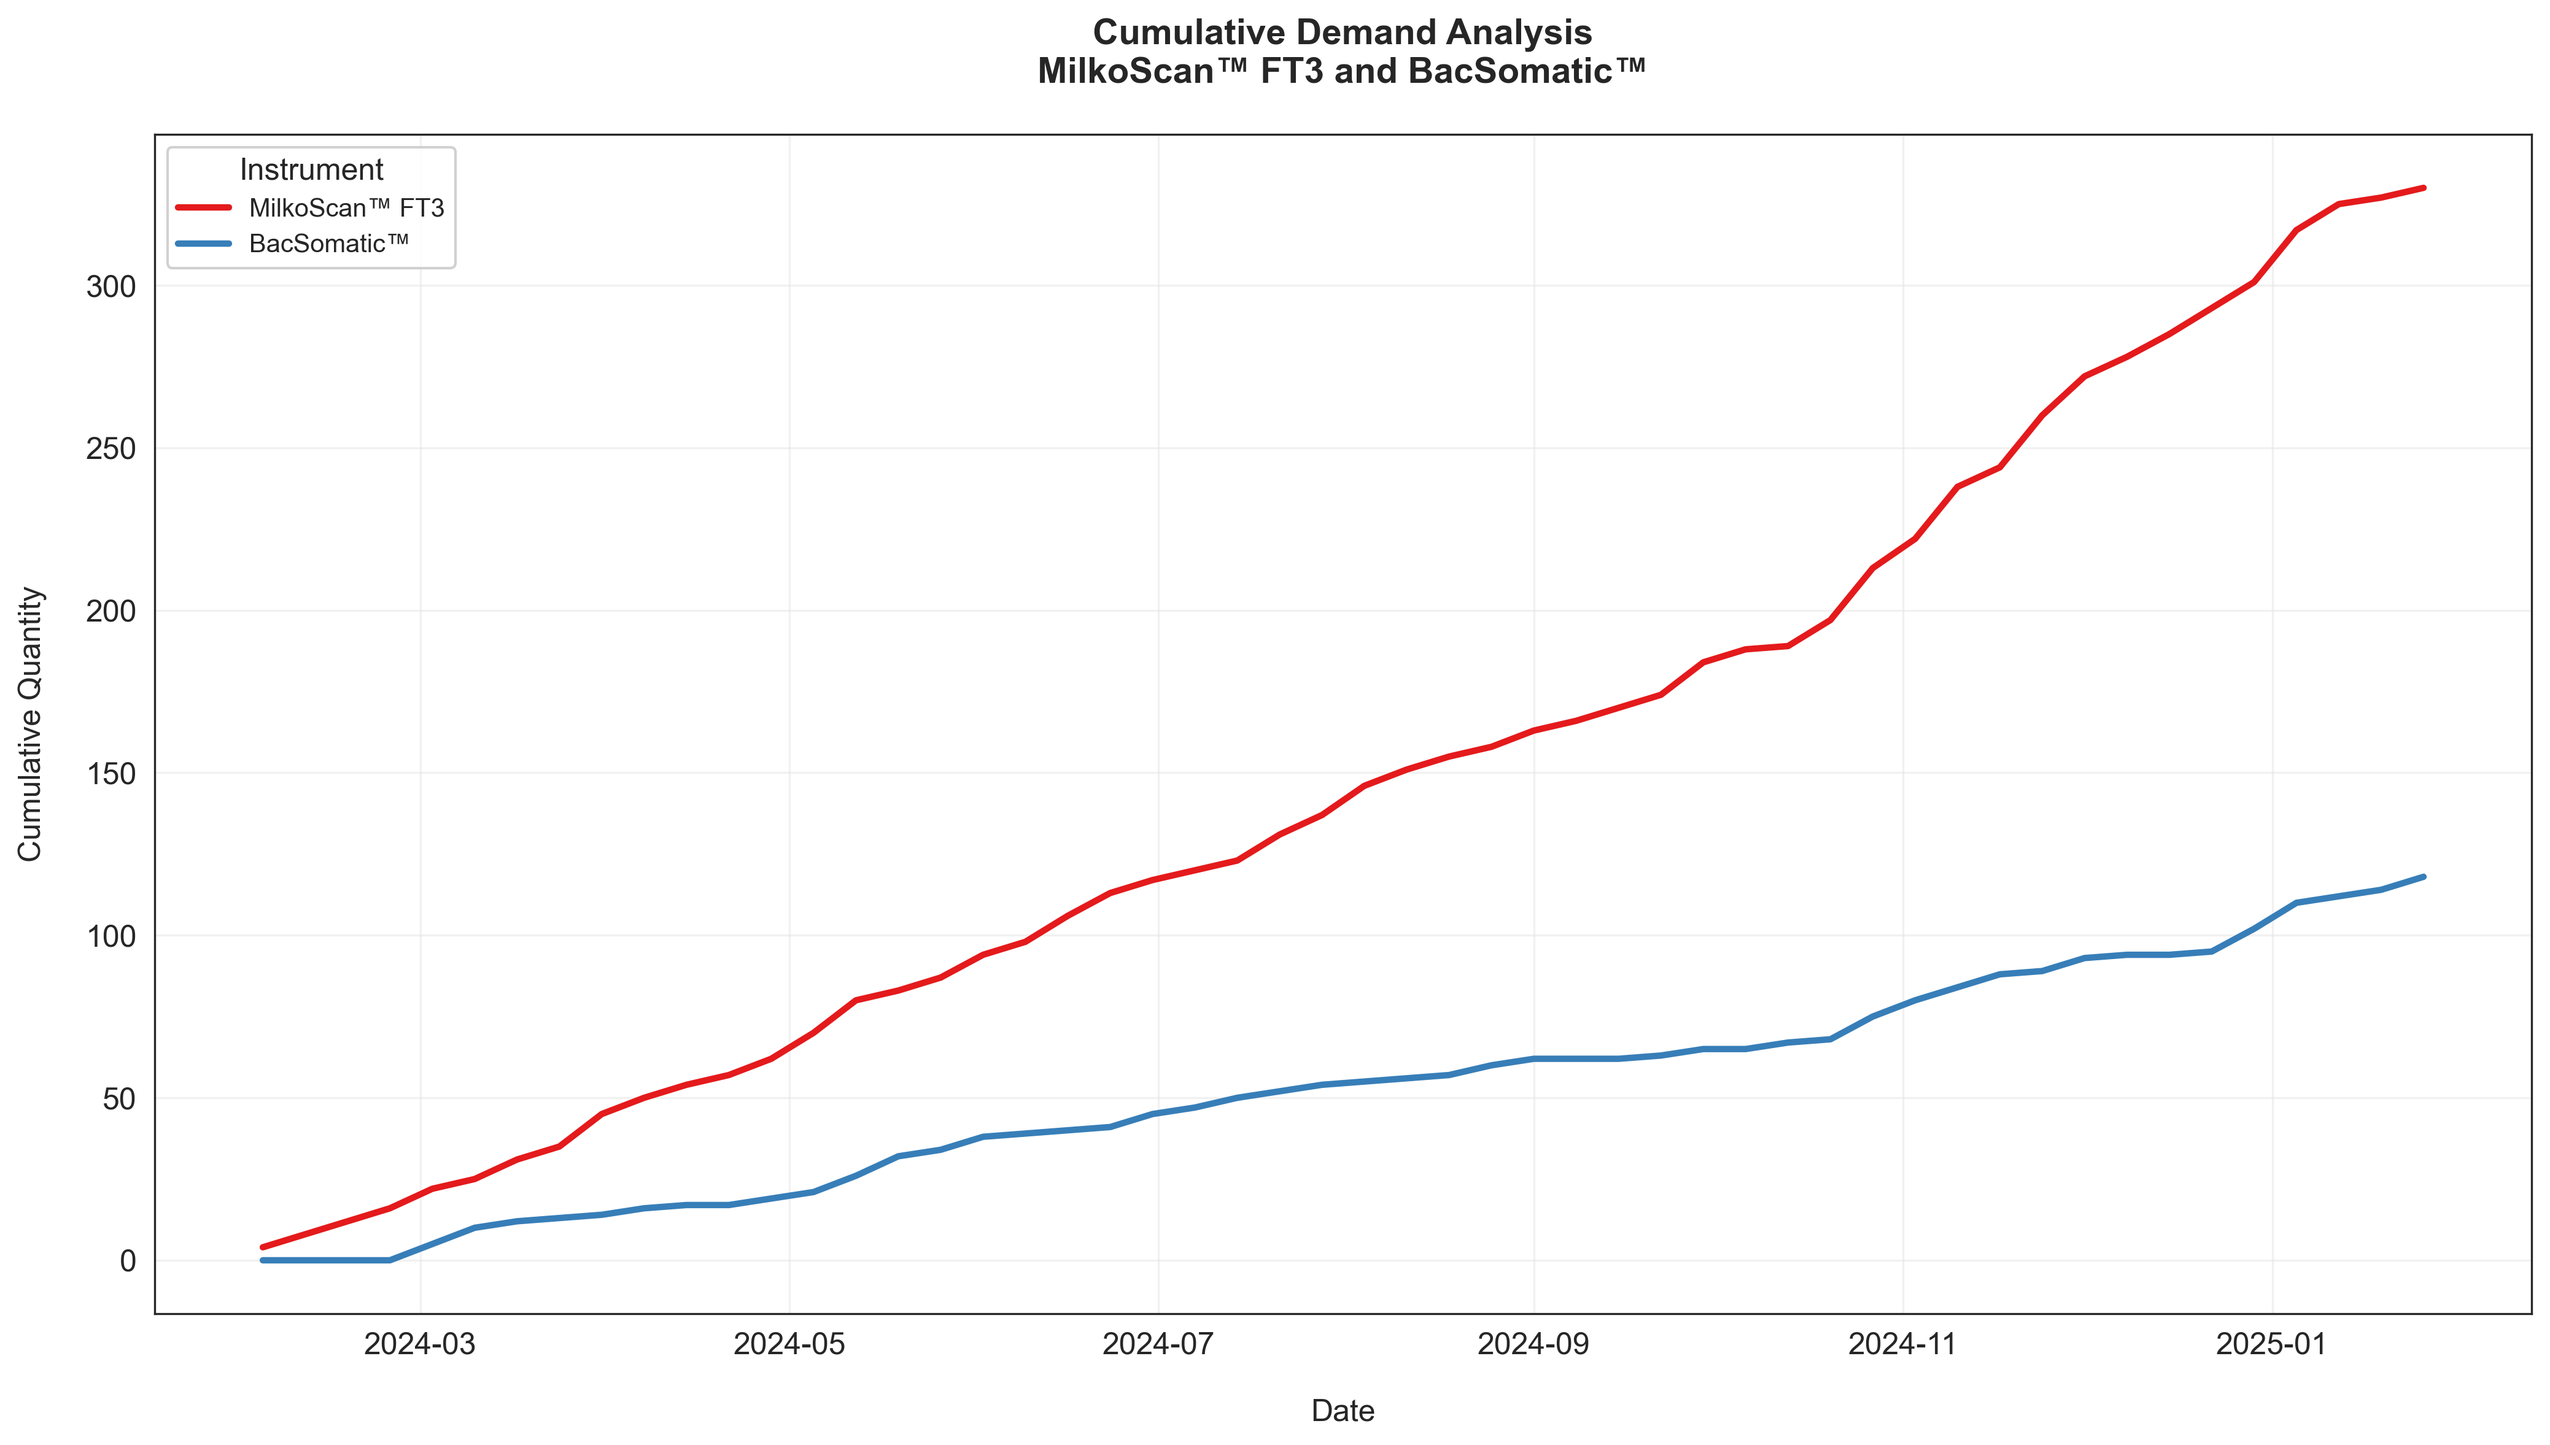
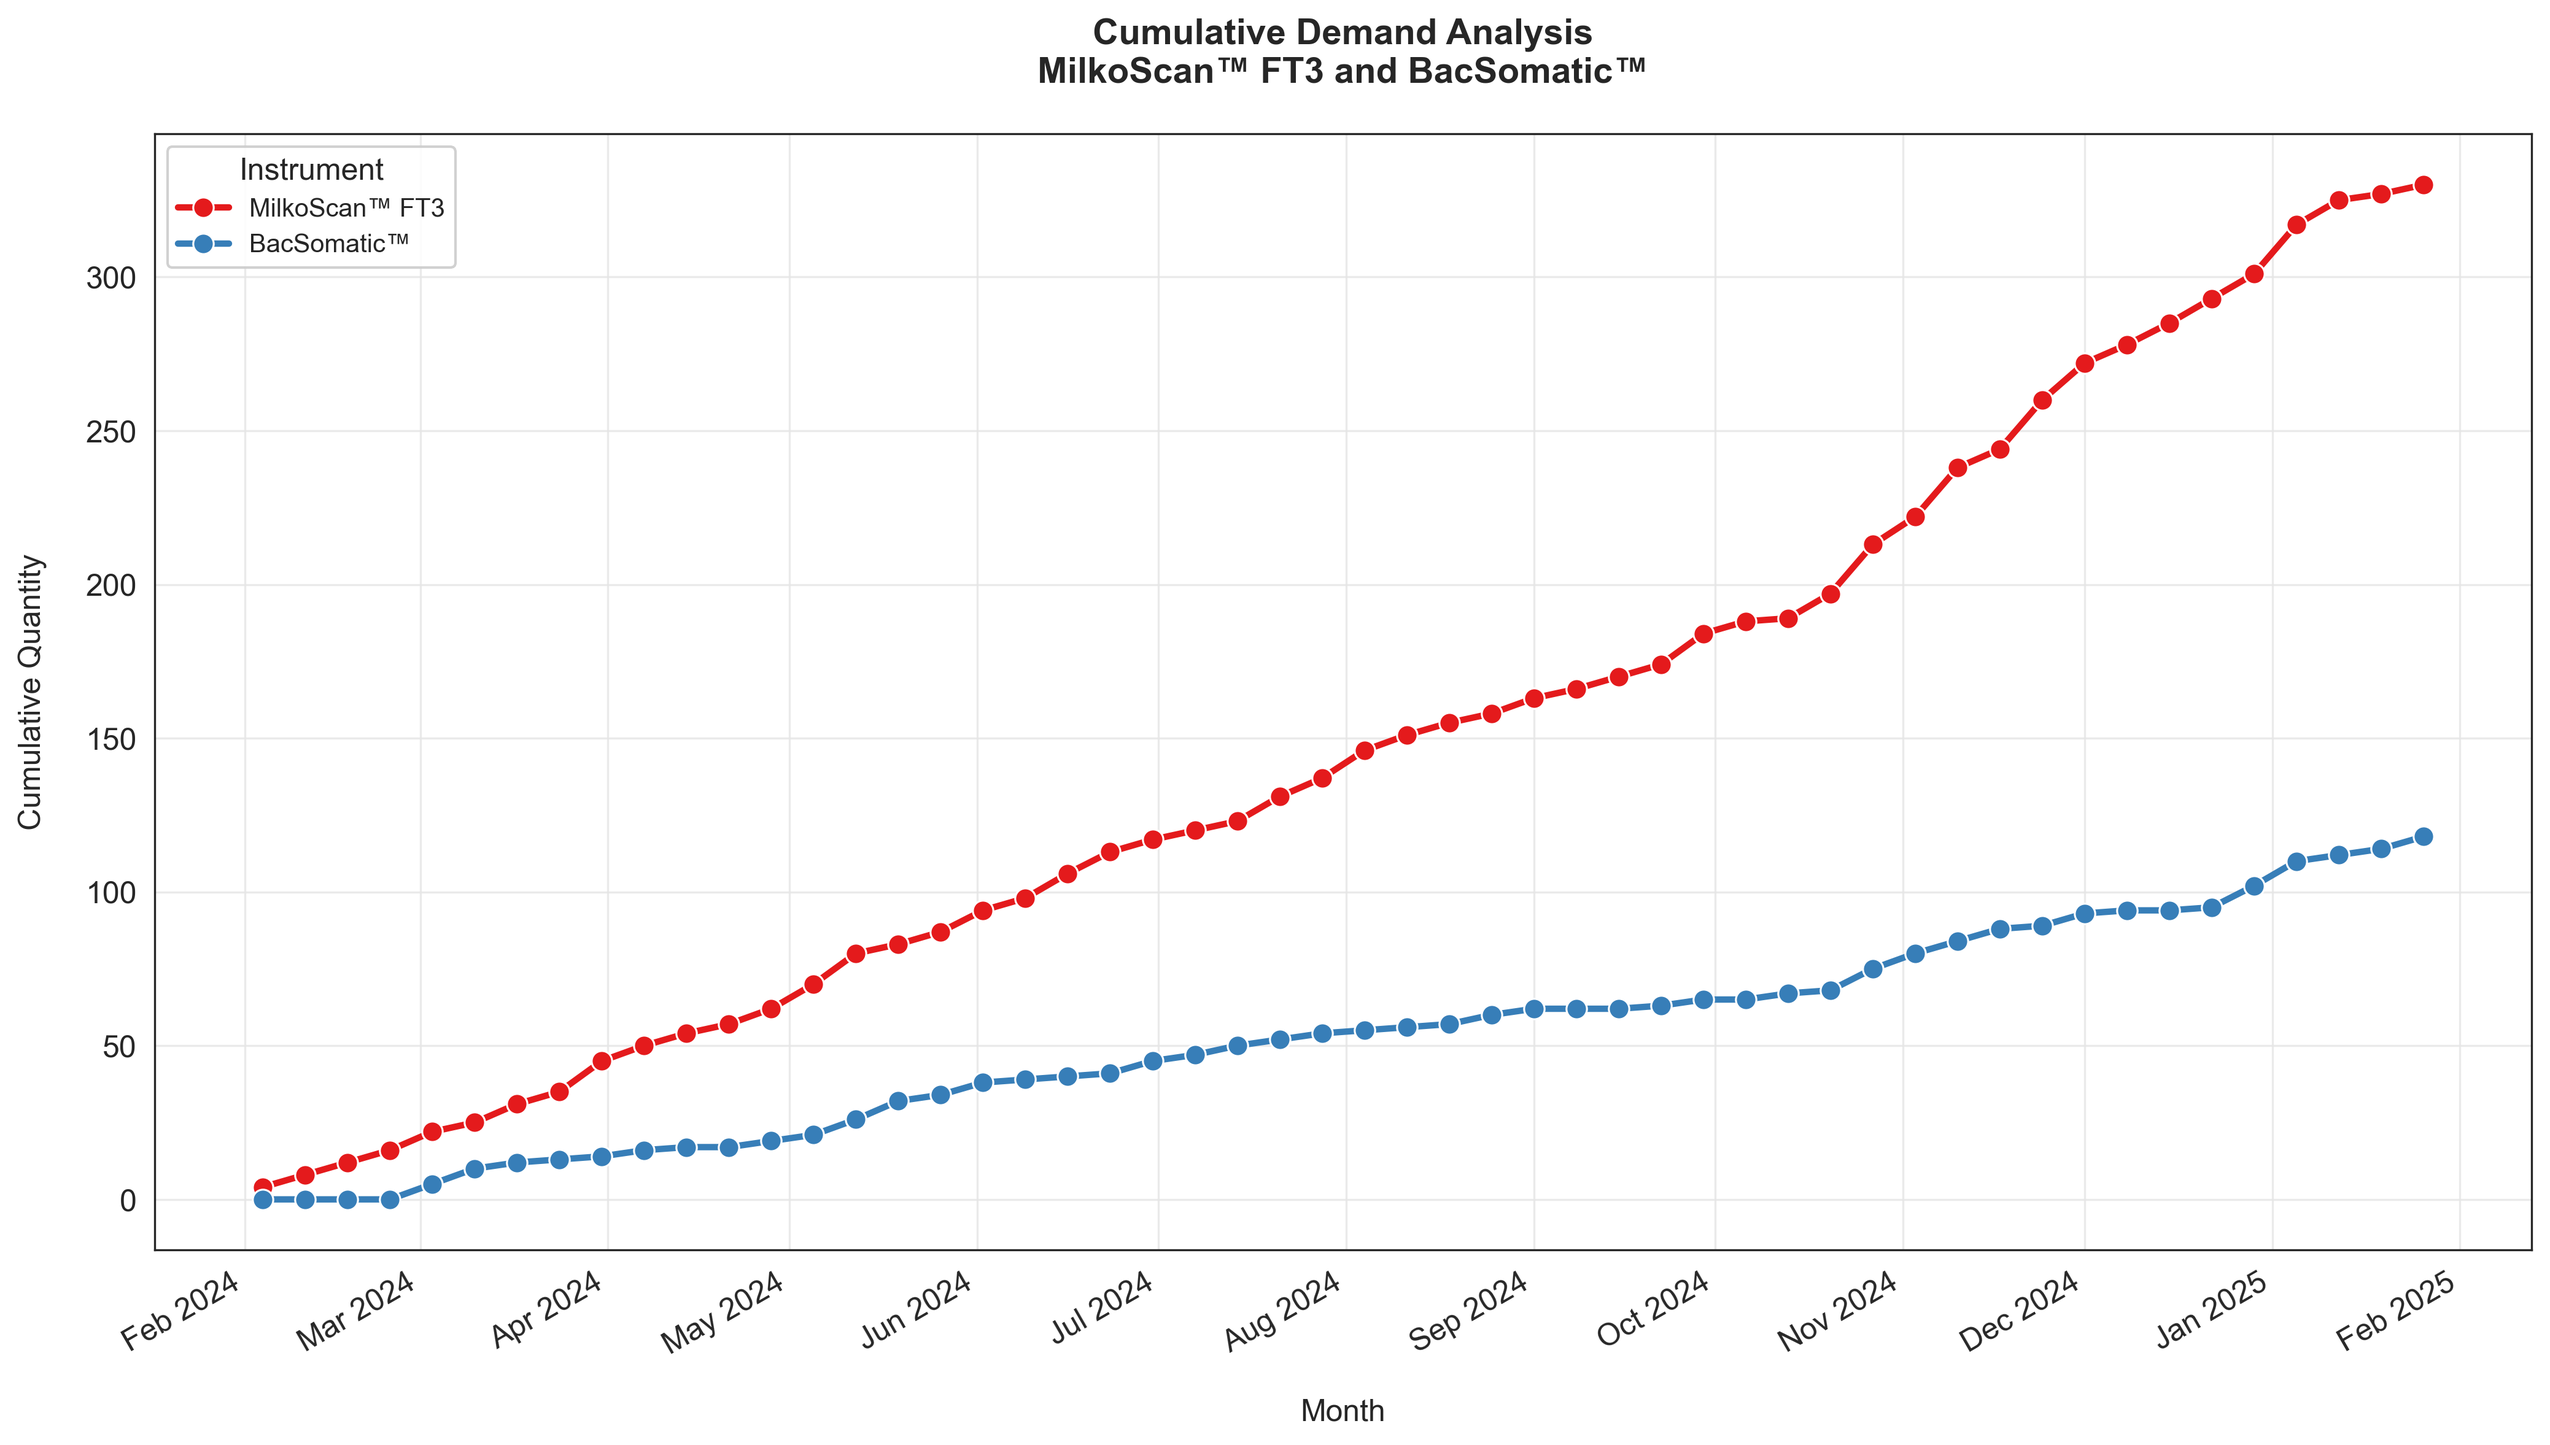
Final plots this is it

diff --git a/demand.py b/demand.py
@@ -44,6 +44,9 @@ timestamp = datetime.now().strftime("%Y%m%d_%H%M%S")
 file_path = 'demand_data.csv'
 data = pd.read_csv(file_path, encoding='Windows-1252')
 
+# Convert quantities to numeric right after loading
+data['Qty.'] = pd.to_numeric(data['Qty.'], errors='coerce').fillna(0)
+
 # Ensure the OrderDate column is in datetime format
 data['OrderDate'] = pd.to_datetime(data['OrderDate'], format='%d-%m-%y')
 
@@ -79,29 +82,28 @@ for refurbished in valid_refurbished:
 # Resample the data by week to smooth trends
 weekly_data = pivot_data.resample('W').sum()
 
+# Function to set consistent time axis formatting
+def set_time_axis_format(ax):
+    ax.xaxis.set_major_locator(plt.matplotlib.dates.MonthLocator())
+    ax.xaxis.set_major_formatter(plt.matplotlib.dates.DateFormatter('%b %Y'))
+    plt.gcf().autofmt_xdate()
+    ax.grid(True, which='major', color='#E5E5E5', linestyle='-', alpha=0.8)
+    ax.grid(True, which='minor', color='#E5E5E5', linestyle='--', alpha=0.5)
+    ax.set_axisbelow(True)
+
 # First visualization (Weekly demand smoothed)
 plt.figure(facecolor='white')
 ax = plt.gca()
 ax.set_facecolor('white')
 for instrument in ['MilkoScan™ FT3', 'BacSomatic™']:
-    sns.lineplot(data=weekly_data[instrument], label=instrument, dashes=False, markers=True,
+    sns.lineplot(data=weekly_data[instrument], label=instrument, marker='o',
                 linewidth=2.5, markersize=8, color=instrument_colors[instrument])
 
-# Enforce monthly labels on the x-axis
-plt.gca().xaxis.set_major_locator(plt.matplotlib.dates.MonthLocator())
-plt.gca().xaxis.set_major_formatter(plt.matplotlib.dates.DateFormatter('%b %Y'))
-plt.gcf().autofmt_xdate()
-
+set_time_axis_format(ax)
 plt.title("Weekly Demand Trends\nMilkoScan™ FT3 and BacSomatic™", pad=20)
 plt.xlabel("Month", labelpad=15)
 plt.ylabel("Quantity Ordered", labelpad=15)
 plt.legend(title="Instrument", title_fontsize=12, fontsize=10, framealpha=0.9)
-
-# Enhanced grid settings
-ax.grid(True, which='major', color='#E5E5E5', linestyle='-', alpha=0.8)
-ax.grid(True, which='minor', color='#E5E5E5', linestyle='--', alpha=0.5)
-ax.set_axisbelow(True)  # Ensure grid is behind the data
-
 plt.tight_layout()
 plt.savefig(os.path.join(plots_dir, 'weekly_demand_smoothed.png'), dpi=300, bbox_inches='tight', facecolor='white')
 plt.close()
@@ -117,9 +119,6 @@ print(weekly_data.sum())
 print("\n=== AVERAGE WEEKLY DEMAND ===")
 print(weekly_data.mean())
 
-print("\n=== CORRELATION MATRIX ===")
-print(weekly_data[['MilkoScan™ FT3', 'BacSomatic™']].corr())
-
 print("\n=== HEAD OF RATIO TIME SERIES ===")
 print(weekly_data['Ratio_MilkoScan_to_BacSomatic'].head())
 
@@ -131,59 +130,104 @@ sns.lineplot(x=weekly_data.index, y=weekly_data['Ratio_MilkoScan_to_BacSomatic']
              color=instrument_colors['MilkoScan™ FT3'], marker='o', markersize=8, linewidth=2.5,
              label='MilkoScan™ FT3 / BacSomatic™')
 plt.axhline(1, linestyle='--', color='gray', alpha=0.8, label='Equal Demand')
+
+set_time_axis_format(ax)
 plt.title("Demand Ratio Analysis\nMilkoScan™ FT3 to BacSomatic™", pad=20)
-plt.xlabel("Date", labelpad=15)
+plt.xlabel("Month", labelpad=15)
 plt.ylabel("Ratio", labelpad=15)
 plt.legend(fontsize=10, framealpha=0.9)
-plt.grid(True, color='#E5E5E5', linestyle='-', alpha=0.5)
 plt.tight_layout()
 plt.savefig(os.path.join(plots_dir, 'ratio_over_time.png'), dpi=300, bbox_inches='tight', facecolor='white')
 plt.close()
 
-# Visualization 3: Correlation heatmap
-plt.figure(facecolor='white')
-ax = plt.gca()
-ax.set_facecolor('white')
-correlation = weekly_data[['MilkoScan™ FT3', 'BacSomatic™']].corr()
-sns.heatmap(correlation, annot=True, cmap="RdBu_r", vmin=-1, vmax=1, 
-            annot_kws={"size": 12}, square=True, fmt=".2f",
-            cbar_kws={"shrink": .8})
-plt.title("Correlation Analysis", pad=20)
-plt.tight_layout()
-plt.savefig(os.path.join(plots_dir, 'correlation_heatmap.png'), dpi=300, bbox_inches='tight', facecolor='white')
-plt.close()
-
-# Visualization 4: Cross-correlation (interaction analysis)
-plt.figure(facecolor='white')
-ax = plt.gca()
-ax.set_facecolor('white')
-lags = np.arange(-8, 9)
-cross_corr = [weekly_data['MilkoScan™ FT3'].corr(weekly_data['BacSomatic™'].shift(lag)) for lag in lags]
-sns.barplot(x=lags, y=cross_corr, color=instrument_colors['MilkoScan™ FT3'], alpha=0.7)
-plt.axhline(0, color='gray', linewidth=1, linestyle='--')
-plt.title("Cross-correlation Analysis\nMilkoScan™ FT3 vs. BacSomatic™", pad=20)
-plt.xlabel("Lag (Weeks)\nNegative: BacSomatic leads, Positive: MilkoScan leads", labelpad=15)
-plt.ylabel("Correlation Coefficient", labelpad=15)
-plt.grid(True, color='#E5E5E5', linestyle='-', alpha=0.5)
-plt.tight_layout()
-plt.savefig(os.path.join(plots_dir, 'cross_correlation.png'), dpi=300, bbox_inches='tight', facecolor='white')
-plt.close()
-
-# Visualization 5: Cumulative demand over time
+# Visualization 3: Cumulative demand over time
 plt.figure(facecolor='white')
 ax = plt.gca()
 ax.set_facecolor('white')
 cumulative_data = weekly_data[['MilkoScan™ FT3', 'BacSomatic™']].cumsum()
 for instrument in ['MilkoScan™ FT3', 'BacSomatic™']:
-    sns.lineplot(data=cumulative_data[instrument], label=instrument, dashes=False, 
-                markers=True, linewidth=2.5, markersize=8, color=instrument_colors[instrument])
+    sns.lineplot(data=cumulative_data[instrument], label=instrument, marker='o',
+                linewidth=2.5, markersize=8, color=instrument_colors[instrument])
+
+set_time_axis_format(ax)
 plt.title("Cumulative Demand Analysis\nMilkoScan™ FT3 and BacSomatic™", pad=20)
-plt.xlabel("Date", labelpad=15)
+plt.xlabel("Month", labelpad=15)
 plt.ylabel("Cumulative Quantity", labelpad=15)
 plt.legend(title="Instrument", title_fontsize=12, fontsize=10, framealpha=0.9)
-plt.grid(True, color='#E5E5E5', linestyle='-', alpha=0.5)
 plt.tight_layout()
 plt.savefig(os.path.join(plots_dir, 'cumulative_demand.png'), dpi=300, bbox_inches='tight', facecolor='white')
 plt.close()
 
-print(f"Enhanced plots saved to {os.path.abspath(plots_dir)} directory")
+# Calculate total units for all products
+total_units = data.groupby('Instrument')['Qty.'].sum().reset_index()
+total_units['Qty.'] = pd.to_numeric(total_units['Qty.'], errors='coerce').fillna(0)
+
+# Get FT3 and BacSomatic totals, ensuring we handle NaN values
+ft3_mask = total_units['Instrument'].str.contains('MilkoScan™ FT3', na=False, case=False)
+bac_mask = total_units['Instrument'].str.contains('BacSomatic™', na=False, case=False)
+other_mask = ~(ft3_mask | bac_mask)
+
+ft3_total = total_units[ft3_mask]['Qty.'].sum()
+bac_total = total_units[bac_mask]['Qty.'].sum()
+others_total = total_units[other_mask]['Qty.'].sum()
+
+# Ensure we have valid numbers
+ft3_total = 0 if np.isnan(ft3_total) else ft3_total
+bac_total = 0 if np.isnan(bac_total) else bac_total
+others_total = 0 if np.isnan(others_total) else others_total
+
+# Calculate percentages
+total_all = ft3_total + bac_total + others_total
+if total_all > 0:  # Prevent division by zero
+    ft3_pct = (ft3_total / total_all) * 100
+    bac_pct = (bac_total / total_all) * 100
+    others_pct = (others_total / total_all) * 100
+else:
+    ft3_pct = bac_pct = others_pct = 0
+
+# Create pie chart with enhanced styling
+plt.figure(facecolor='white', figsize=(14, 8))
+ax = plt.gca()
+ax.set_facecolor('white')
+
+# Prepare data for pie chart
+sizes = [ft3_total, bac_total, others_total]
+instrument_names = ['MilkoScan™ FT3', 'BacSomatic™', 'Other Products']
+percentages = [ft3_pct, bac_pct, others_pct]
+colors = [instrument_colors['MilkoScan™ FT3'], 
+          instrument_colors['BacSomatic™'], 
+          '#999999']  # Gray for others
+
+# Create custom labels for legend
+legend_labels = [f'{name}\n{value:.0f} units ({pct:.1f}%)' 
+                for name, value, pct in zip(instrument_names, sizes, percentages)]
+
+# Create pie chart without labels on the pie itself
+patches, _ = plt.pie(sizes, colors=colors, startangle=90,
+                    wedgeprops={'edgecolor': 'white', 'linewidth': 2})
+
+# Add legend to the right side
+plt.legend(patches, legend_labels,
+          title="Instrument Distribution",
+          title_fontsize=14,
+          fontsize=12,
+          loc="center left",
+          bbox_to_anchor=(1, 0.5))
+
+plt.title("Market Share Distribution by Instrument Type", 
+         pad=20, fontsize=14, fontweight='bold')
+
+# Ensure the pie chart is circular
+plt.axis('equal')
+
+# Adjust layout to prevent legend cropping
+plt.tight_layout()
+plt.savefig(os.path.join(plots_dir, 'market_share_pie.png'), 
+            dpi=300, bbox_inches='tight', facecolor='white')
+plt.close()
+
+print(f"\n=== MARKET SHARE BREAKDOWN ===")
+print(f"MilkoScan™ FT3: {ft3_total:.0f} units ({ft3_pct:.1f}%)")
+print(f"BacSomatic™: {bac_total:.0f} units ({bac_pct:.1f}%)")
+print(f"Other Products: {others_total:.0f} units ({others_pct:.1f}%)")
+print(f"\nEnhanced plots saved to {os.path.abspath(plots_dir)} directory")
